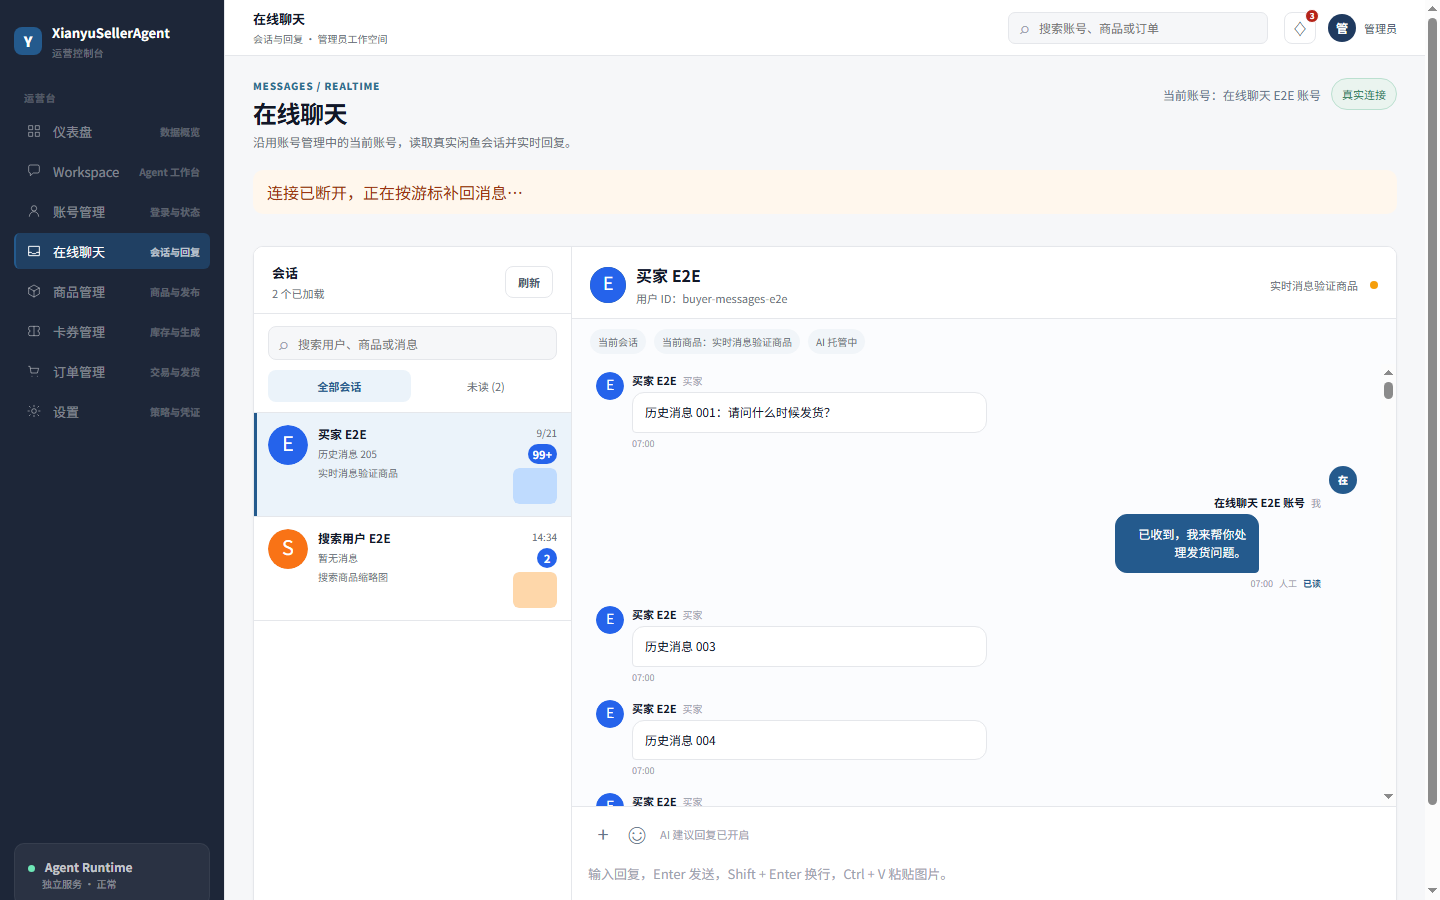
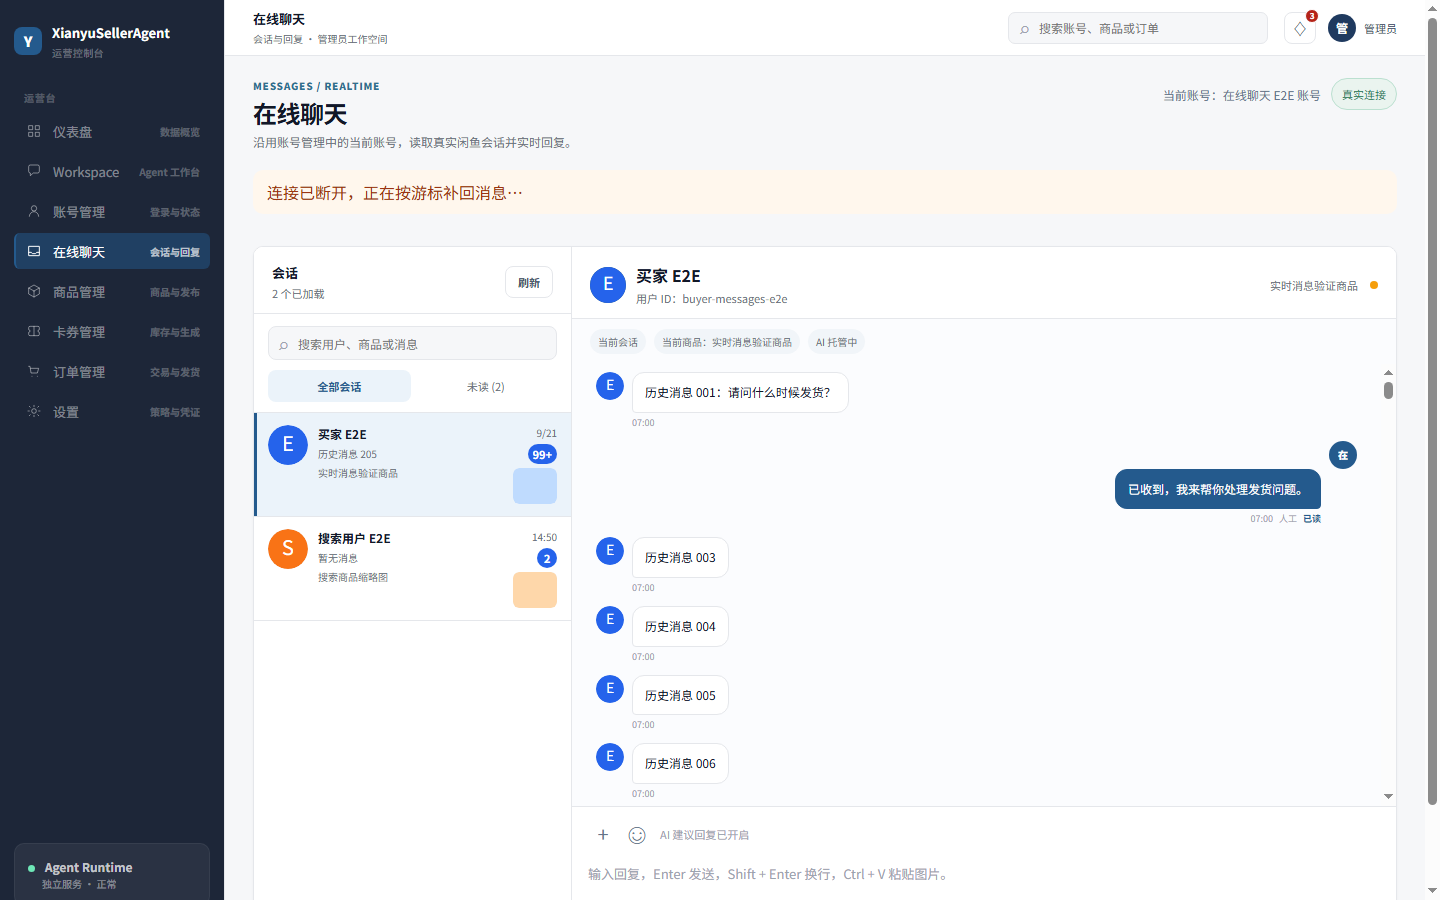
fix(聊天): 恢复消息间距与内容宽度

diff --git a/apps/web/src/features/messages/MessageTimeline.test.ts b/apps/web/src/features/messages/MessageTimeline.test.ts
@@ -50,15 +50,21 @@ describe('MessageTimeline', () => {
     expect(html).not.toContain('收到[尊嘟假嘟]');
   });
 
-  it('renders participant identity and outbound read state', () => {
+  it('renders avatar, compact message metadata, and outbound read state without names', () => {
     const html = renderToStaticMarkup(createElement(MessageTimeline, {
       phase: 'success',
-      messages: [message({ direction: 'outbound', senderRole: 'agent', bodyText: '已收到' })],
+      messages: [
+        message({ direction: 'inbound', senderRole: 'buyer', source: 'ai', bodyText: '自动回复' }),
+        message({ messageId: 'm-2', direction: 'outbound', senderRole: 'agent', source: 'human', bodyText: '已收到' }),
+      ],
       outboundParticipant: { displayName: 'Seller', avatarUrl: 'https://cdn.example.com/seller.png' },
     }));
     expect(html).toContain('messages-message-avatar self');
     expect(html).toContain('https://cdn.example.com/seller.png');
-    expect(html).toContain('Seller');
+    expect(html).not.toContain('messages-message-author');
+    expect(html).not.toContain('Seller');
+    expect(html).toContain('AI');
+    expect(html).toContain('人工');
     expect(html).toContain('messages-read-state');
   });
 

diff --git a/apps/web/src/features/messages/components/MessageTimeline.tsx b/apps/web/src/features/messages/components/MessageTimeline.tsx
@@ -28,7 +28,6 @@ export function MessageTimeline({ messages, phase, hasMoreHistory = false, loadi
           {participant?.avatarUrl ? <img src={participant.avatarUrl} alt="" /> : <span>{(participant?.displayName || fallbackName).slice(0, 1)}</span>}
         </div>
         <div className="messages-message-stack">
-          <div className="messages-message-author"><strong>{participant?.displayName || fallbackName}</strong><span>{isOutbound ? '我' : '买家'}</span></div>
           <div className={`messages-bubble ${isOutbound ? 'outbound' : 'inbound'}`}>
             {imageUrl ? <button className="messages-image-button" type="button" aria-label="查看聊天图片" onClick={() => onOpenImage?.(imageUrl)}><img className="messages-image" src={imageUrl} alt="聊天图片" loading="lazy" /></button> : <span>{renderMessageText(message.bodyText || (message.bodyType === 'image' ? '[图片]' : '[系统消息]'))}</span>}
           </div>

diff --git a/apps/web/src/features/messages/components/messages.css b/apps/web/src/features/messages/components/messages.css
@@ -273,7 +273,8 @@
 }
 
 .messages-bubble {
-  max-width: min(70%, 580px);
+  width: fit-content;
+  max-width: 100%;
   border: 1px solid var(--border);
   border-radius: 12px;
   padding: 10px 12px;
@@ -309,7 +310,7 @@
   grid-template-columns: 28px minmax(0, 1fr);
   column-gap: 8px;
   align-items: start;
-  margin-bottom: 16px;
+  margin-bottom: 12px;
 }
 
 .messages-bubble-row.outbound {
@@ -377,11 +378,16 @@
 
 .messages-message-stack {
   min-width: 0;
+  width: fit-content;
   max-width: min(70%, 580px);
+  display: flex;
+  flex-direction: column;
+  align-items: flex-start;
 }
 
 .messages-bubble-row.outbound .messages-message-stack {
   text-align: right;
+  align-items: flex-end;
 }
 
 .messages-message-author {
@@ -411,7 +417,8 @@
   display: flex;
   align-items: center;
   gap: 6px;
-  margin-top: 4px;
+  width: fit-content;
+  margin-top: 3px;
   color: var(--axis);
   font-size: 9px;
 }
